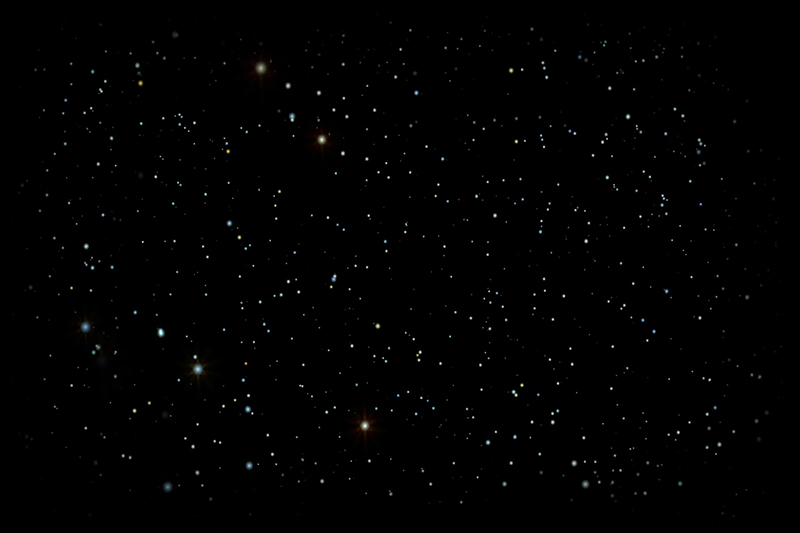
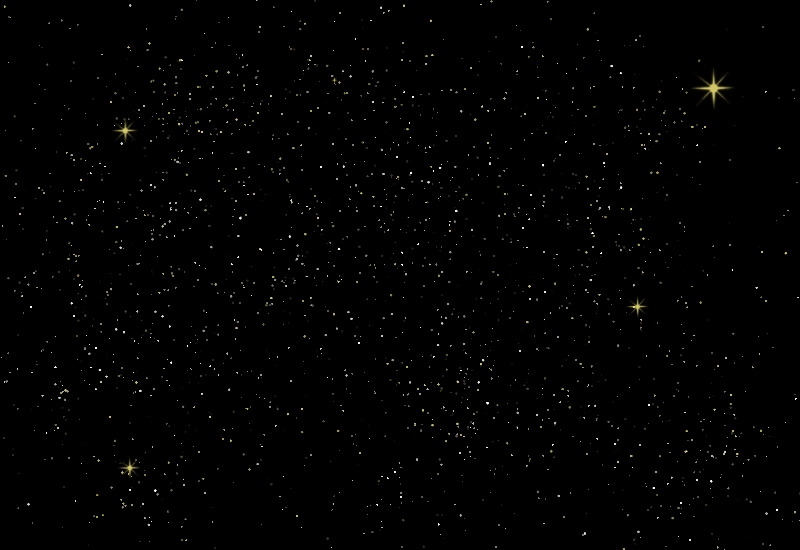
replaced background with handmade image

diff --git a/index.html b/index.html
@@ -55,8 +55,8 @@
       <div id="questOutput" class="output-box" aria-live="polite" aria-atomic="true"></div>
       
       <div class="premium-feature" data-feature="save-quest">
-        <button id="saveQuestButton" class="save-button" title="Premium Feature" disabled>Save Quest</button>
-        <span class="premium-lock" aria-label="Premium feature" title="Premium Feature">🔒</span>
+        <button id="saveQuestButton" class="save-button" title="Premium Feature" disabled>Save Quest <span class="premium-lock" aria-label="Premium feature" title="Premium Feature">🔒</span>
+</button>
       </div>
     </section>
 
@@ -71,8 +71,8 @@
       <div id="npcOutput" class="output-box" aria-live="polite" aria-atomic="true"></div>
 
       <div class="premium-feature" data-feature="save-npc">
-        <button id="saveNPCButton" class="save-button" title="Premium Feature" disabled>Save NPC</button>
-        <span class="premium-lock" aria-label="Premium feature" title="Premium Feature">🔒</span>
+        <button id="saveNPCButton" class="save-button" title="Premium Feature" disabled>Save NPC <span class="premium-lock" aria-label="Premium feature" title="Premium Feature">🔒</span>
+</button>
       </div>
     </section>
 
